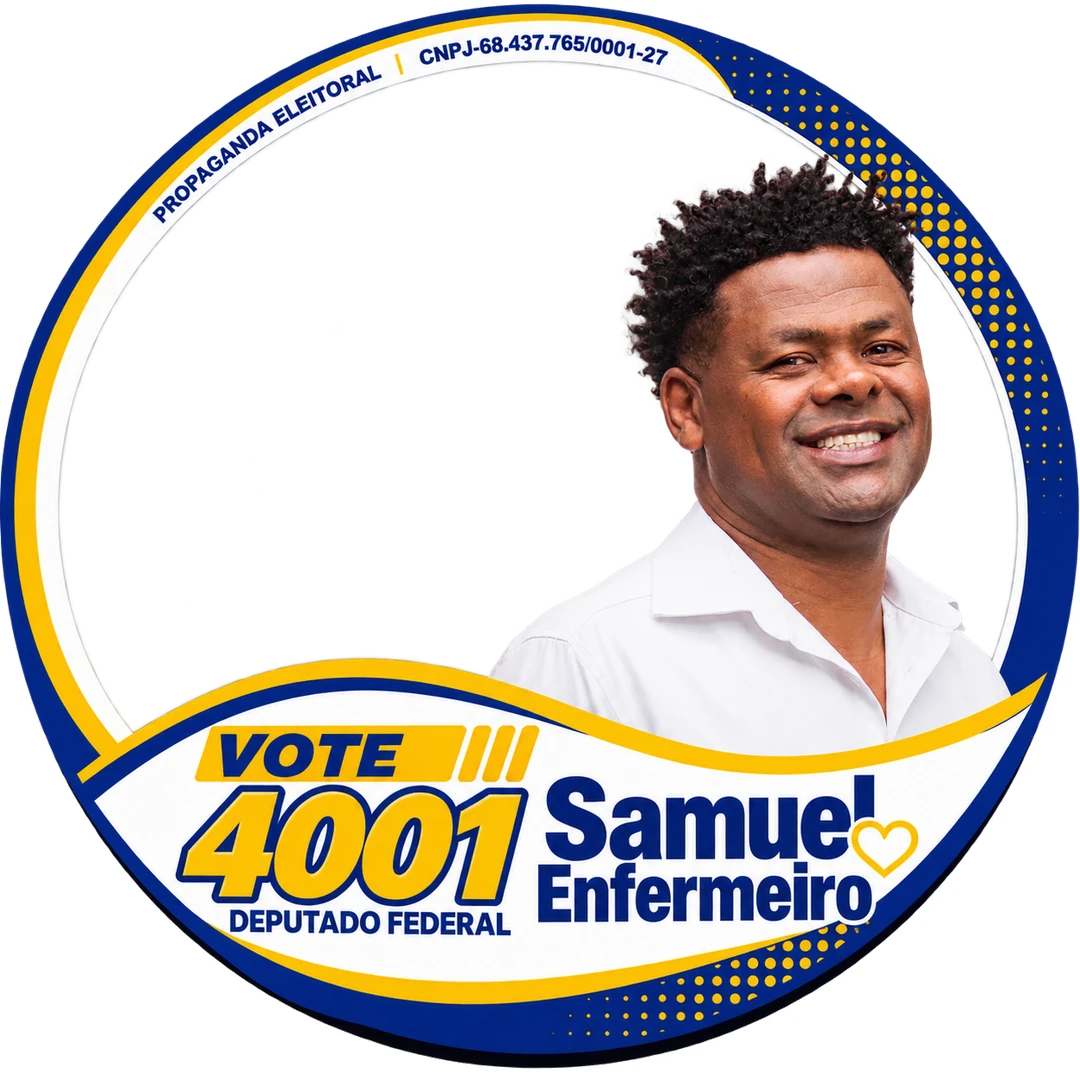
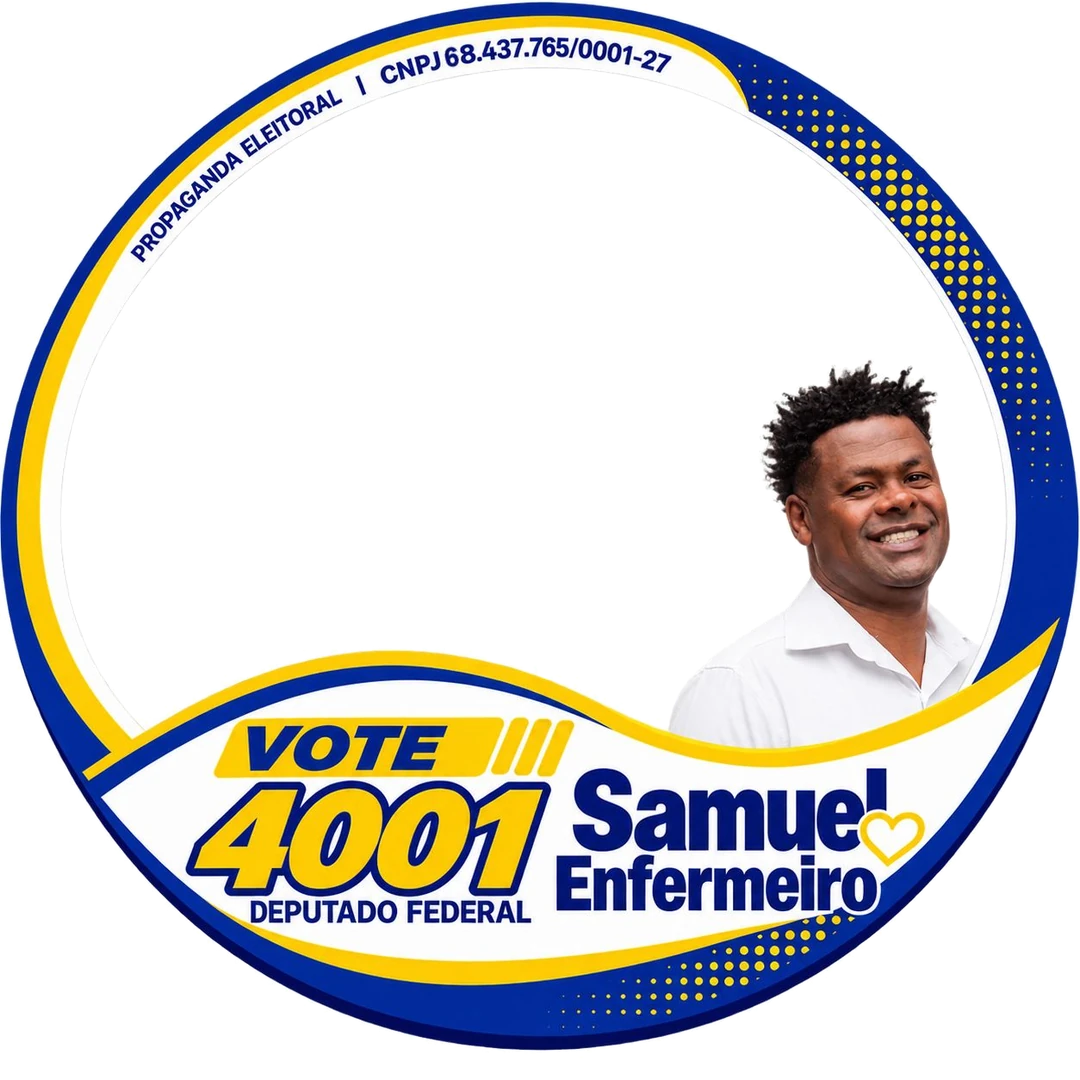
Moldura de perfil com o candidato menor e CNPJ corrigido
Troca a arte 1:1 pela versao em que a foto do Samuel ocupa menos espaco,
sobrando mais area para a foto de quem usa o app.

O CNPJ vinha errado na arte de origem (58.437.765). O digito foi corrigido
para 68.437.765/0001-27 — o unico com digito verificador valido — usando o
proprio glifo "6" da mesma linha, transplantado sobre o arco para manter
fonte, peso e inclinacao identicos.

Buraco remedido (cx 533, cy 397, rx 472, ry 329) e foco horizontal centrado,
o que garante cobertura total do vazado em qualquer proporcao de foto.

diff --git a/index.html b/index.html
@@ -236,7 +236,7 @@
     <span class="estilos-rotulo">Escolha o formato</span>
     <div class="estilos-opcoes">
       <button type="button" class="estilo ativo" data-moldura="0" role="radio" aria-checked="true">
[2 lines of base64/hex data omitted]
         <span>Foto de perfil<small>WhatsApp e Instagram</small></span>
       </button>
       <button type="button" class="estilo" data-moldura="1" role="radio" aria-checked="false">
@@ -333,7 +333,7 @@
   // de cima e e o que a pessoa baixa — o que ela ve e o que ela leva.
   var MOLDURAS = [
     { nome: "Foto de perfil", W: 1080, H: 1080,
-      cx: 537, cy: 396, rx: 478, ry: 333, focoX: 470,
+      cx: 533, cy: 397, rx: 472, ry: 329, focoX: 533,
       arquivo: "samuel-enfermeiro-perfil.png", src: "assets/molduras/perfil-1x1.webp" },
     { nome: "Story", W: 810, H: 1440,
       cx: 405, cy: 635, rx: 405, ry: 462, focoX: 405,
